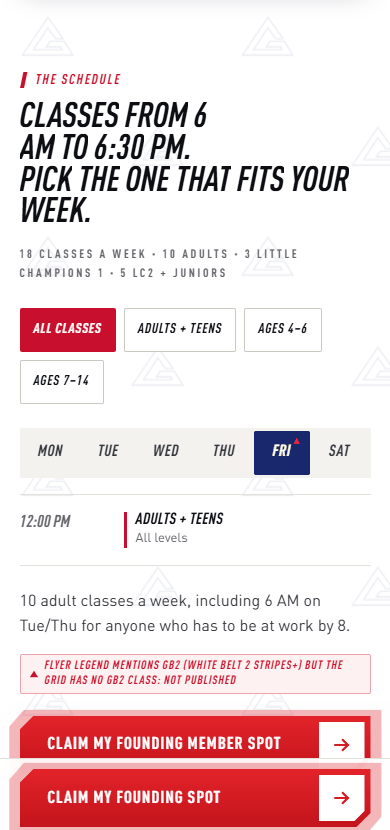
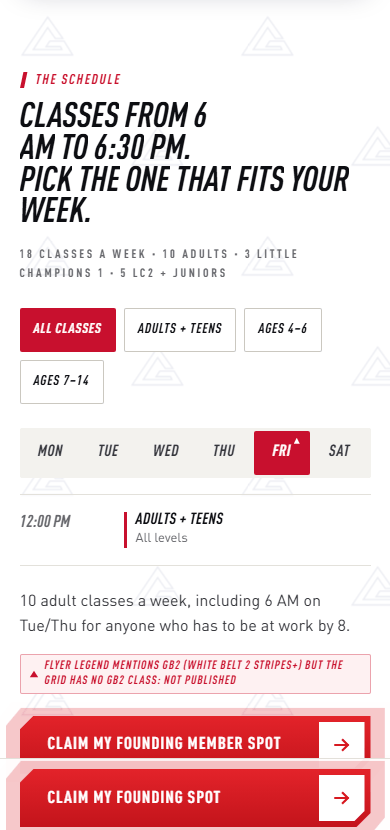
style(schedule): header and active day tab in GB red

diff --git a/src/styles/sections.css b/src/styles/sections.css
@@ -1715,7 +1715,7 @@ html.motion .build__why .rise {
 }
 .sc__table thead th {
   padding: 16px 14px;
-  background: var(--navy);
+  background: var(--red);
   color: var(--paper);
   text-align: left;
   vertical-align: top;
@@ -1729,7 +1729,7 @@ html.motion .build__why .rise {
   display: block;
   font-size: var(--t-label);
   letter-spacing: 0.16em;
-  color: var(--on-dark-2);
+  color: var(--paper); /* branco cheio: 5,9:1 sobre o vermelho */
 }
 .sc__dayname {
   display: block;
@@ -1740,12 +1740,10 @@ html.motion .build__why .rise {
   color: var(--paper);
   text-decoration: none;
 }
-/* hoje: o rótulo em vermelho claro e a régua vermelha no pé da célula */
+/* hoje: a célula em vermelho mais fundo e a régua branca no pé */
 .sc__table thead th.is-today {
-  box-shadow: inset 0 -4px 0 var(--red-glow);
-}
-.sc__table thead th.is-today .sc__date {
-  color: var(--red-hi);
+  background: var(--red-deep);
+  box-shadow: inset 0 -4px 0 var(--paper);
 }
 .sc__day.is-closed {
   width: 84px;
@@ -1880,7 +1878,7 @@ html.motion .sc__board[data-in] {
   color: var(--ink-2);
 }
 .sc__tab[aria-selected='true'] {
-  background: var(--navy);
+  background: var(--red);
   color: var(--paper);
 }
 .sc__dot {
@@ -1893,7 +1891,7 @@ html.motion .sc__board[data-in] {
   clip-path: polygon(50% 0, 100% 100%, 0 100%);
 }
 .sc__tab[aria-selected='true'] .sc__dot {
-  background: var(--red-glow);
+  background: var(--paper);
 }
 .sc__slots {
   display: grid;

diff --git a/public/memory/design-decisions.md b/public/memory/design-decisions.md
@@ -122,3 +122,4 @@ A tabela viva é a §20 do `prd-GBR-001.md` (23 itens). Resumo do que trava o mo
 - **Horários refeitos no mecanismo do schedule da Like Water v2 (pedido do Adryan), na linguagem GB:** quadro com horários na lateral e dias no topo (cabeçalho marinho, Cn itálico, data de cada dia), cada aula é um botão com barra vermelha à esquerda; o filtro (All · Adults + Teens · Ages 4–6 · Ages 7–14) apaga o que não foi escolhido em vez de esconder; a coluna de hoje fica acesa (régua red-glow no topo e fundo levemente avermelhado); hover acende linha e coluna; domingo é coluna fechada com hachura. Celular: abas por dia (hoje com o ▲ vermelho) e a lista do dia. Hoje e as datas só no navegador (fuso America/Chicago), sem divergência de hidratação. O botão do pé fica centralizado. Print de referência: `prints/ref-likewater-schedule-*.png`.
 - **Coach:** removido o marcador das fotos de faixa-marrom (pedido do Adryan).
 - **Sem experiência vira a caderneta (pedido do Adryan, modelo: pranchetas da OCJ v3):** tudo centralizado e, no desktop, numa tela só (100svh) — cabeçalho, duas pranchetas lado a lado, e a frase "Nobody gets in shape first…" com o botão logo abaixo, no mesmo bloco (antes ficavam soltos). Tábua marinho GB, prendedor de metal com rebite em triângulo vermelho, papel pautado com margem vermelha, lista em letra à mão (Caveat Brush, OFL, subconjunto de 40 KB em `public/fonts/hand`, usada SÓ aqui — exceção registrada ao preset §3, que previa só Permanent Marker). A caneta desenha ✓ vermelho / ✗ marinho em sequência quando a mesa entra; as pranchetas caem na mesa. A foto do Andre virou polaroid com fita presa na primeira prancheta.
+- **Horários em vermelho (Adryan):** o cabeçalho do quadro e a aba ativa do celular passam de marinho para o vermelho GB; hoje vira a célula em `--red-deep` com régua branca no pé; datas em branco cheio (5,9:1).
